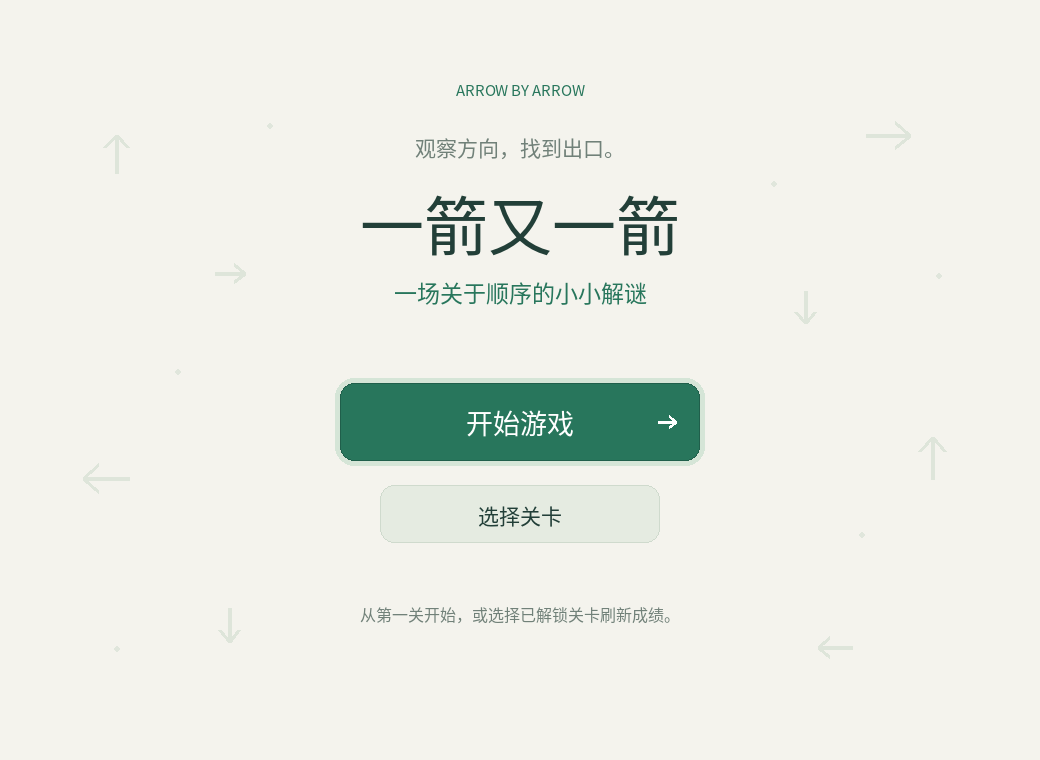
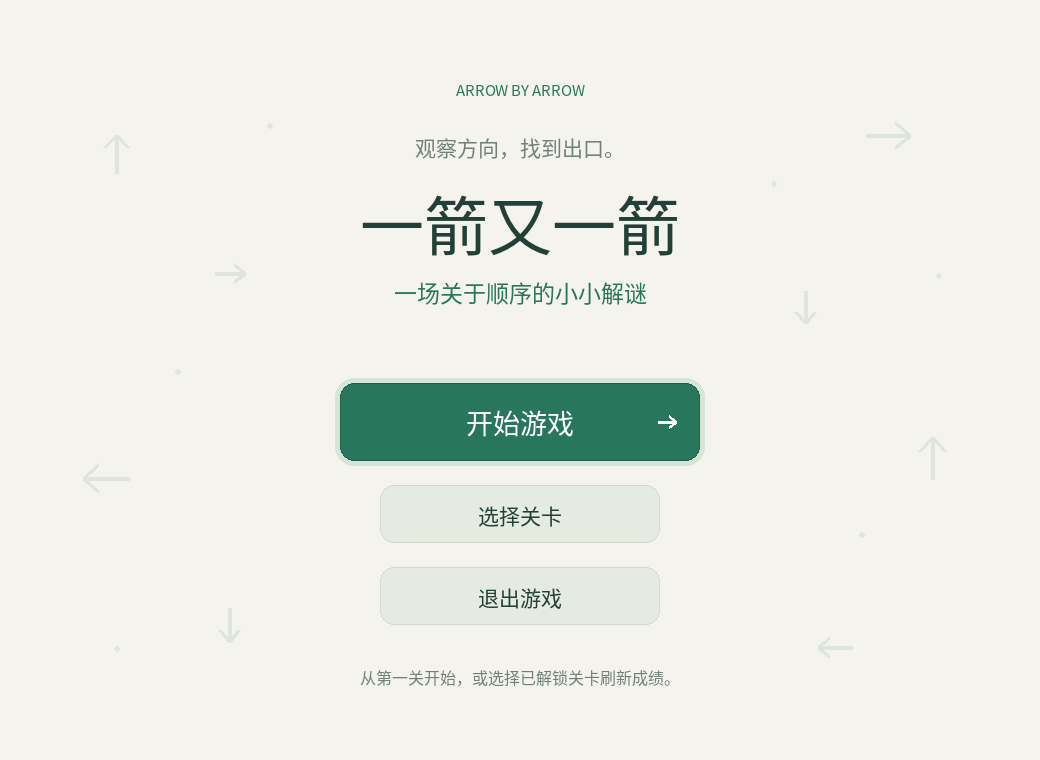
feat: add matching exit button below level selection

Changed region(s): [[0.3385, 0.7566, 0.6462, 0.8171], [0.3385, 0.8776, 0.6462, 0.9079]]

diff --git a/main.py b/main.py
@@ -123,7 +123,8 @@ class App:
         self.text('一场关于顺序的小小解谜', (cx,292), 23, GREEN, True)
         self.home_button('start', '开始游戏', 383)
         self.home_button('select', '选择关卡', 485)
-        self.text('从第一关开始，或选择已解锁关卡刷新成绩。', (cx,614), 16, MUTED, True)
+        self.home_button('quit', '退出游戏', 567)
+        self.text('从第一关开始，或选择已解锁关卡刷新成绩。', (cx,677), 16, MUTED, True)
         if self.game.progress.message:
             self.text(self.game.progress.message, (cx,730), 16, '#B95D43', True)
 
@@ -279,6 +280,7 @@ class App:
     def action(self, key):
         g=self.game
         if key=='start': self.start()
+        elif key=='quit': self.running=False
         elif key=='begin' and g.state=='READY':
             g.state='PLAYING'
             self.clock.tick()  # 清除说明页的帧间隔，计时从确认后开始。

diff --git a/README.md b/README.md
@@ -126,3 +126,5 @@ git clone history/development.bundle ../arrow-game-repo
 箭头、布局与界面图形由代码绘制，无原商业游戏素材。字体使用 [Noto Sans CJK](https://github.com/notofonts/noto-cjk)，文件为 `Sans/OTF/SimplifiedChinese/NotoSansCJKsc-Regular.otf`，按 SIL Open Font License 1.1 分发，许可证随包保留在 `assets/OFL.txt`。
 
 首页不再显示详细规则，玩法、35 秒限时与 ABC 评级统一放在关卡开始前的说明页。初次进入、选关、下一关及重试都先进入说明页；阅读期间不计时，也不接受棋盘点击。
+
+首页“选择关卡”下方提供“退出游戏”，两个按钮均为 280×58、字号21，使用相同悬停高亮逻辑；点击退出会正常结束主循环并关闭窗口。
